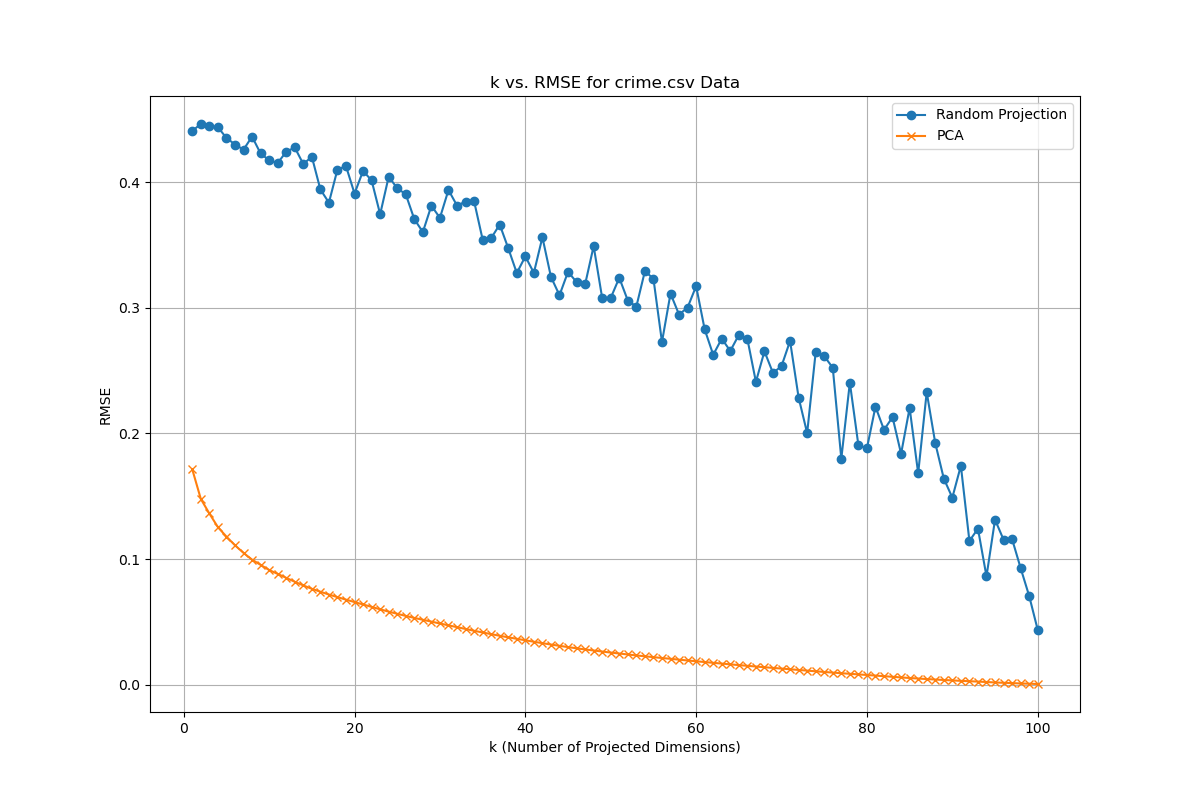
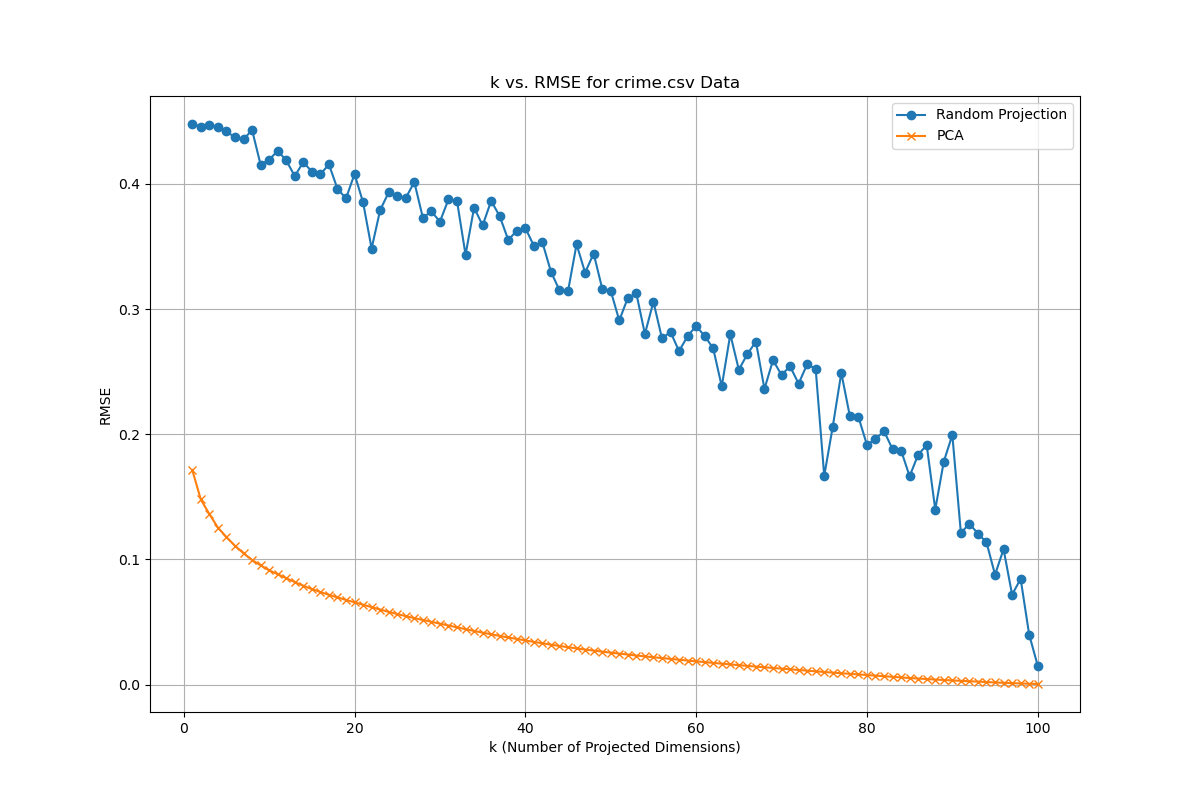
update ddrp

diff --git a/datadependentRP.py b/datadependentRP.py
@@ -1,0 +1,111 @@
+import numpy as np
+import matplotlib.pyplot as plt
+import pandas as pd
+from sklearn.decomposition import PCA
+import time
+
+def generate_random_column(x):
+    """Generate a data-dependent random column based on the features of x."""
+    # Number of features in x
+    p = x.shape[1]
+
+    # Draw random coefficients from a standard Gaussian distribution
+    beta = np.random.randn(p)
+
+    # Construct the data-dependent random column as a linear combination of the features of x
+    r_i = np.dot(x, beta)
+
+    return r_i
+
+def gram_schmidt_columns(X):
+    """Orthogonalize the columns of matrix X using the Gram-Schmidt process."""
+    Q, R = np.linalg.qr(X)
+    return Q
+
+def data_dependent_random_projection(x, n_components):
+    """Perform data-dependent random projection on data x."""
+    # Number of samples in x
+    m = x.shape[0]
+    
+    # Initialize the random matrix R
+    R = np.empty((m, n_components))
+    
+    # Generate each column R_i of R
+    for i in range(n_components):
+        R[:, i] = generate_random_column(x)
+
+    # Orthogonalize the columns of R
+    R = gram_schmidt_columns(R)
+    
+    # Project the data
+    x_projected = np.dot(R.T, x)
+    
+    return R, x_projected
+
+def compute_rmse(original, reconstructed):
+    """Compute the RMSE between the original and reconstructed data."""
+    mse = np.mean((original - reconstructed) ** 2)
+    rmse = np.sqrt(mse)
+    return rmse
+
+def plot_ddrp_rmse_vs_k(X, k_values):
+    """
+    Plot RMSE values against k for data-dependent random projection.
+    
+    Parameters:
+    - X: Input matrix of shape (n_samples, n_features)
+    - k_values: List of k values to consider for random projection
+    """
+    rmse_values = []
+
+    for k in k_values:
+        R_k, x_projected = data_dependent_random_projection(X, k)
+        x_reconstructed = np.dot(R_k, x_projected)
+        rmse = compute_rmse(X, x_reconstructed)
+        rmse_values.append(rmse)
+
+    plt.figure(figsize=(12, 8))
+    plt.plot(k_values, rmse_values, marker='o', linestyle='-')
+    
+    plt.title('k vs. RMSE for Data-Dependent Random Projection')
+    plt.xlabel('k (Number of Projected Dimensions)')
+    plt.ylabel('RMSE')
+    plt.grid(True)
+    plt.savefig("rmse_ddrp_k.png")
+    plt.show()
+
+if __name__ == '__main__':
+
+    # Load the CSV file into a DataFrame
+    data_df = pd.read_csv("data.csv")
+
+    # Convert the DataFrame to a NumPy array
+    X = data_df.values
+
+    # Specify the dimension (number of components) we want to project to
+    #n_components = 10
+
+    # Perform data-dependent random projection
+    #R, x_projected = data_dependent_random_projection(X, n_components)
+
+    # Print the shape of the projected data
+    #print("Shape of the projected data: ", x_projected.shape)
+
+    # Perform data-dependent reconstruction
+    #x_reconstructed = np.dot(R, x_projected)
+
+    # Print the shape of the reconstructed data
+    #print("Shape of the reconstructed data: ", x_reconstructed.shape)
+
+    # Compute the RMSE between the original and reconstructed data
+    #rmse = compute_rmse(X, x_reconstructed)
+    #print("RMSE between original and reconstructed data:", rmse)
+
+    # Define the range of k values
+    k_values = list(range(0, 101))
+
+    # Plot RMSE vs k for data-dependent random projection
+    plot_ddrp_rmse_vs_k(X, k_values)
+
+
+
